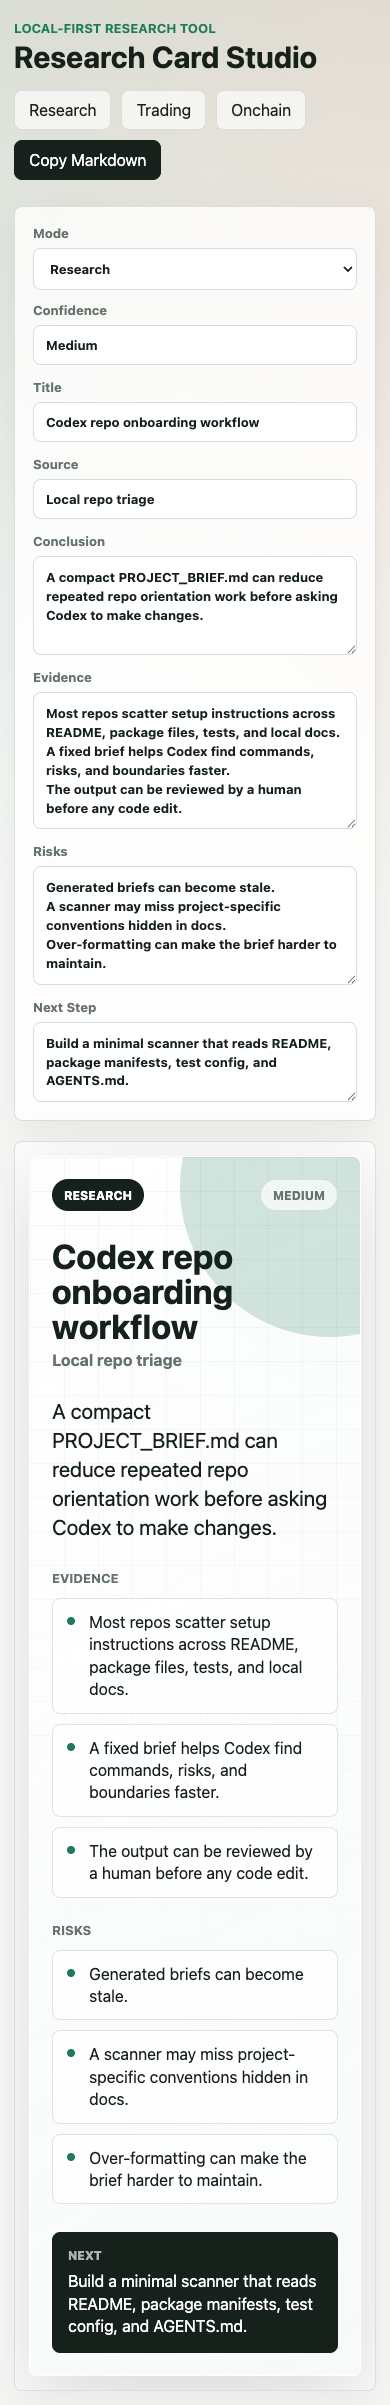
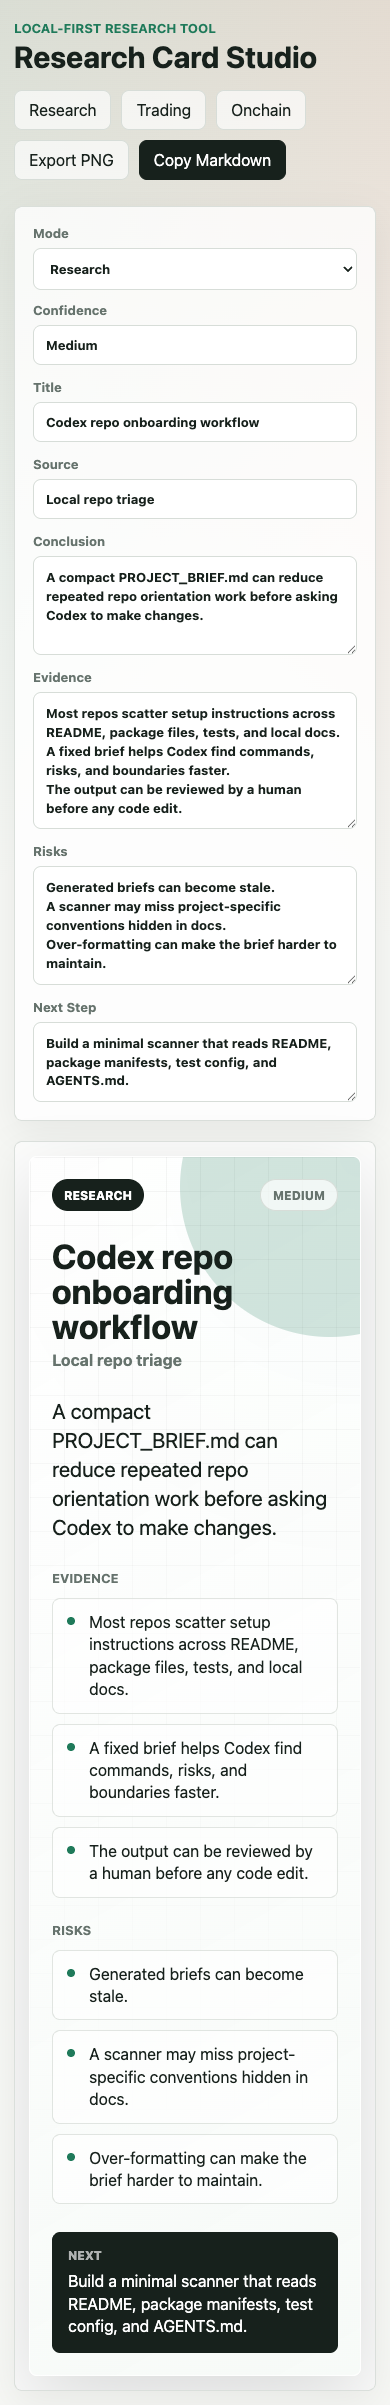
Add PNG export for research cards

Changed region(s): [[0.4, 0.0312, 0.7385, 0.0936], [0.0308, 0.0312, 0.3692, 0.0936]]

diff --git a/app.js b/app.js
@@ -174,9 +174,174 @@ ${data.next}
 
 async function copyMarkdown() {
   await navigator.clipboard.writeText(markdown());
+  showToast("Copied");
+}
+
+function showToast(message) {
   const toast = document.querySelector("#toast");
+  toast.textContent = message;
   toast.classList.add("visible");
   window.setTimeout(() => toast.classList.remove("visible"), 1200);
+}
+
+function wrapLines(context, text, maxWidth) {
+  const words = text.split(/\s+/).filter(Boolean);
+  const lines = [];
+  let line = "";
+
+  words.forEach((word) => {
+    const next = line ? `${line} ${word}` : word;
+    if (context.measureText(next).width > maxWidth && line) {
+      lines.push(line);
+      line = word;
+    } else {
+      line = next;
+    }
+  });
+
+  if (line) lines.push(line);
+  return lines;
+}
+
+function drawWrappedText(context, text, x, y, maxWidth, lineHeight) {
+  const lines = wrapLines(context, text, maxWidth);
+  lines.forEach((line, index) => {
+    context.fillText(line, x, y + index * lineHeight);
+  });
+  return y + lines.length * lineHeight;
+}
+
+function drawRoundRect(context, x, y, width, height, radius) {
+  context.beginPath();
+  context.roundRect(x, y, width, height, radius);
+  context.fill();
+}
+
+function drawPill(context, text, x, y, background, color) {
+  context.font = "700 22px Inter, Arial, sans-serif";
+  const width = context.measureText(text).width + 40;
+  context.fillStyle = background;
+  drawRoundRect(context, x, y, width, 46, 23);
+  context.fillStyle = color;
+  context.fillText(text, x + 20, y + 31);
+}
+
+function drawBulletList(context, items, x, y, maxWidth, accent) {
+  items.forEach((item) => {
+    context.font = "400 30px Inter, Arial, sans-serif";
+    const lines = wrapLines(context, item, maxWidth - 72);
+    const boxHeight = Math.max(74, lines.length * 38 + 34);
+
+    context.fillStyle = "rgba(255,255,255,0.68)";
+    drawRoundRect(context, x, y, maxWidth, boxHeight, 16);
+
+    context.fillStyle = accent;
+    context.beginPath();
+    context.arc(x + 32, y + 38, 7, 0, Math.PI * 2);
+    context.fill();
+
+    context.fillStyle = "#17211c";
+    lines.forEach((line, index) => {
+      context.fillText(line, x + 62, y + 42 + index * 38);
+    });
+
+    y += boxHeight + 18;
+  });
+
+  return y;
+}
+
+function themeColors(mode) {
+  if (mode === "Trading") {
+    return { accent: "#d2673f", background: "#fff7f1" };
+  }
+  if (mode === "Onchain") {
+    return { accent: "#2e5fa8", background: "#f2f7ff" };
+  }
+  return { accent: "#1f7a5a", background: "#f6faf7" };
+}
+
+function renderPngCanvas(data) {
+  const canvas = document.createElement("canvas");
+  canvas.width = 1400;
+  canvas.height = 1800;
+  const context = canvas.getContext("2d");
+  const colors = themeColors(data.mode);
+  const margin = 96;
+  const contentWidth = canvas.width - margin * 2;
+
+  context.fillStyle = colors.background;
+  context.fillRect(0, 0, canvas.width, canvas.height);
+
+  context.strokeStyle = "rgba(23,33,28,0.06)";
+  context.lineWidth = 1;
+  for (let x = 0; x < canvas.width; x += 64) {
+    context.beginPath();
+    context.moveTo(x, 0);
+    context.lineTo(x, canvas.height);
+    context.stroke();
+  }
+  for (let y = 0; y < canvas.height; y += 64) {
+    context.beginPath();
+    context.moveTo(0, y);
+    context.lineTo(canvas.width, y);
+    context.stroke();
+  }
+
+  context.fillStyle = `${colors.accent}33`;
+  context.beginPath();
+  context.arc(canvas.width - 80, 70, 260, 0, Math.PI * 2);
+  context.fill();
+
+  drawPill(context, data.mode.toUpperCase(), margin, 92, "#17211c", "#ffffff");
+  drawPill(context, data.confidence.toUpperCase(), canvas.width - margin - 260, 92, "#ffffff", "#66736d");
+
+  let y = 238;
+  context.fillStyle = "#17211c";
+  context.font = "800 82px Inter, Arial, sans-serif";
+  y = drawWrappedText(context, data.title, margin, y, contentWidth, 90) + 24;
+
+  context.fillStyle = "#66736d";
+  context.font = "700 30px Inter, Arial, sans-serif";
+  context.fillText(data.source, margin, y);
+  y += 78;
+
+  context.fillStyle = "#17211c";
+  context.font = "400 39px Inter, Arial, sans-serif";
+  y = drawWrappedText(context, data.summary, margin, y, contentWidth, 52) + 72;
+
+  context.fillStyle = "#66736d";
+  context.font = "800 24px Inter, Arial, sans-serif";
+  context.fillText("EVIDENCE", margin, y);
+  y += 34;
+  y = drawBulletList(context, data.evidence, margin, y, contentWidth, colors.accent) + 52;
+
+  context.fillStyle = "#66736d";
+  context.font = "800 24px Inter, Arial, sans-serif";
+  context.fillText("RISKS", margin, y);
+  y += 34;
+  y = drawBulletList(context, data.risks, margin, y, contentWidth, colors.accent) + 52;
+
+  context.fillStyle = "#17211c";
+  drawRoundRect(context, margin, y, contentWidth, 190, 18);
+  context.fillStyle = "rgba(255,255,255,0.66)";
+  context.font = "800 22px Inter, Arial, sans-serif";
+  context.fillText("NEXT", margin + 30, y + 48);
+  context.fillStyle = "#ffffff";
+  context.font = "700 32px Inter, Arial, sans-serif";
+  drawWrappedText(context, data.next, margin + 30, y + 96, contentWidth - 60, 42);
+
+  return canvas;
+}
+
+async function exportPng() {
+  const data = cardData();
+  const canvas = renderPngCanvas(data);
+  const link = document.createElement("a");
+  link.download = `${data.mode.toLowerCase()}-research-card.png`;
+  link.href = canvas.toDataURL("image/png");
+  link.click();
+  showToast("PNG exported");
 }
 
 Object.values(fields).forEach((field) => {
@@ -188,5 +353,6 @@ document.querySelectorAll("[data-sample]").forEach((button) => {
 });
 
 document.querySelector("#copyMarkdown").addEventListener("click", copyMarkdown);
+document.querySelector("#exportPng").addEventListener("click", exportPng);
 
 render();

diff --git a/index.html b/index.html
@@ -18,6 +18,7 @@
             <button class="ghost-button" type="button" data-sample="research">Research</button>
             <button class="ghost-button" type="button" data-sample="trading">Trading</button>
             <button class="ghost-button" type="button" data-sample="onchain">Onchain</button>
+            <button class="ghost-button" type="button" id="exportPng">Export PNG</button>
             <button class="primary-button" type="button" id="copyMarkdown">Copy Markdown</button>
           </div>
         </header>

diff --git a/README.md b/README.md
@@ -31,6 +31,7 @@ The app includes three built-in card modes:
 - three visual themes
 - structured fields for conclusion, evidence, risks, and next step
 - one-click Markdown export
+- one-click PNG export
 - one-click sample loading
 - local-only workflow
 
@@ -65,7 +66,6 @@ LICENSE
 
 ## Roadmap
 
-- export card as PNG
 - import / export JSON notes
 - add Codex repo brief mode
 - add browser extension clipper